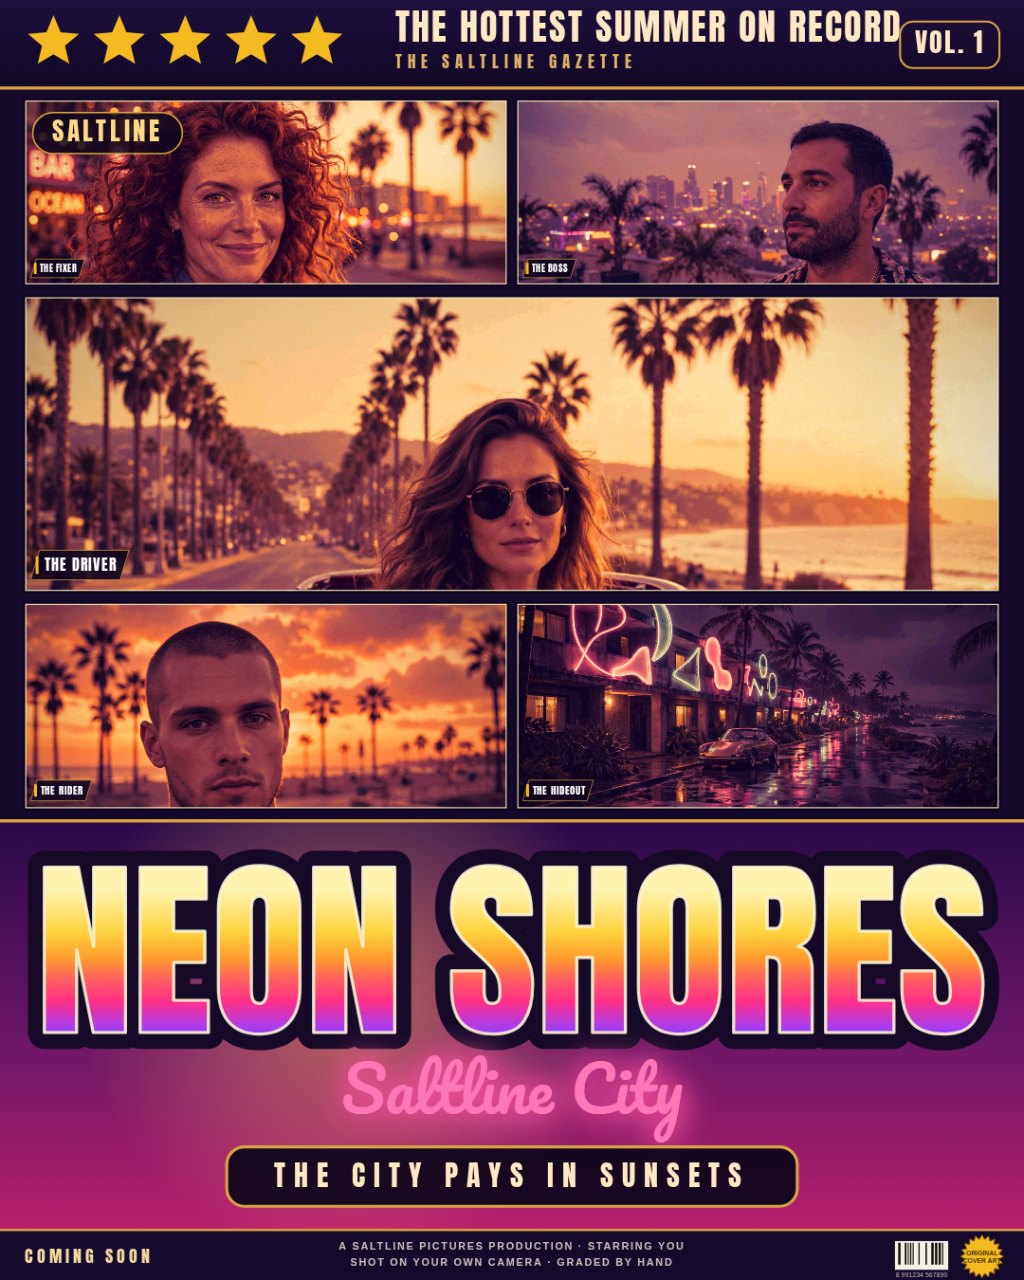
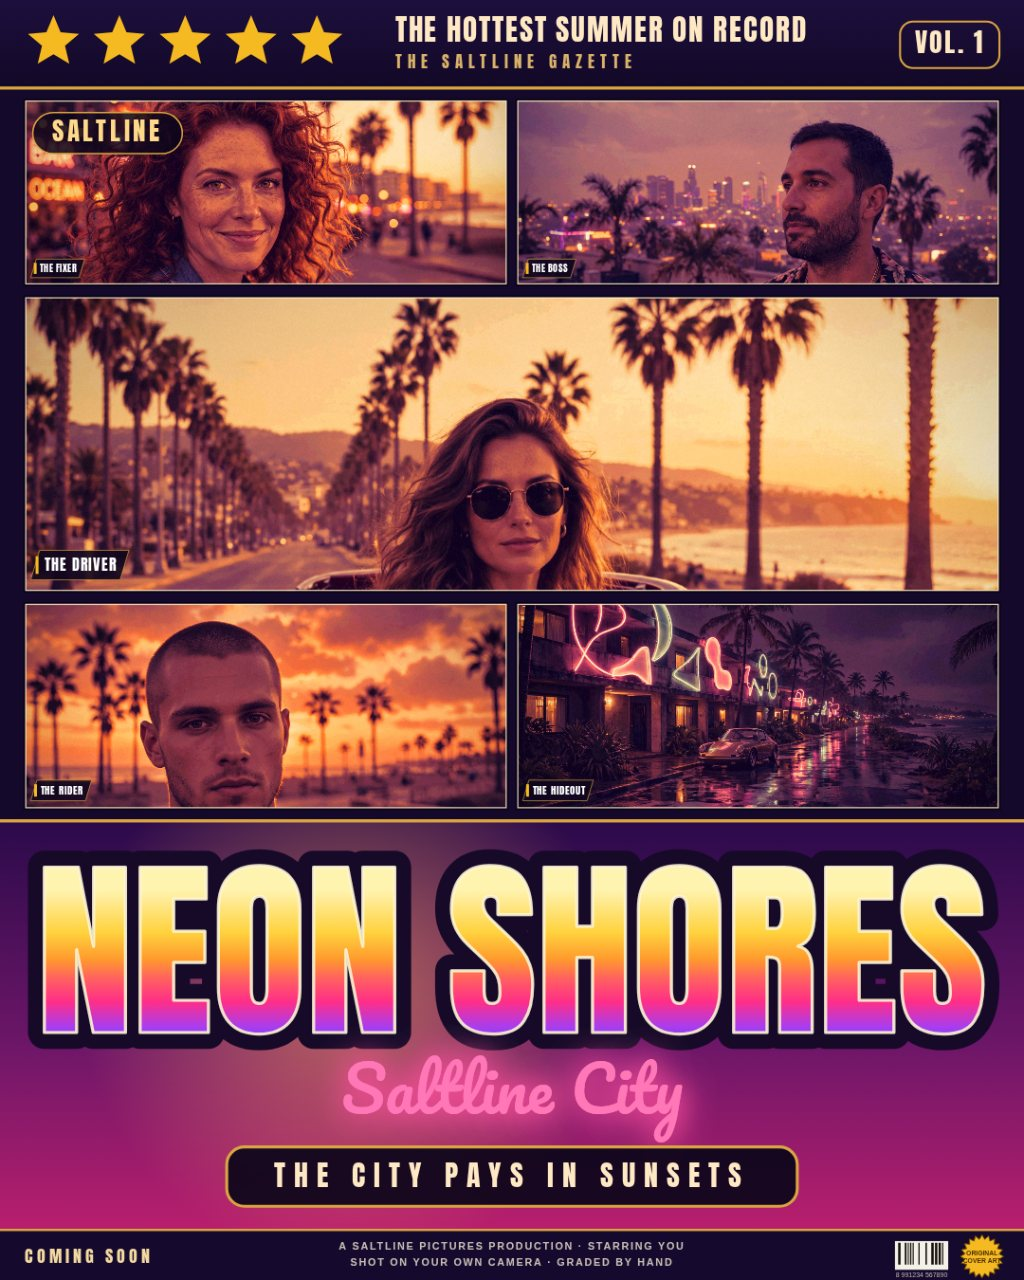
Round 3 re-authored: poster fixer framing + masthead gap

Changed region(s): [[0.0, 0.0625, 0.5, 0.2188], [0.375, 0.0, 0.875, 0.0312]]

diff --git a/app/src/render.js b/app/src/render.js
@@ -112,7 +112,7 @@ function titleMetrics(W, H, zones, state) {
 
 // ---- Furniture pieces ------------------------------------------------
 
-function paintMasthead(ctx, zone, W) {
+function paintMasthead(ctx, zone, W, layoutId) {
   const { y, h } = zone;
   const grad = ctx.createLinearGradient(0, y, 0, y + h);
   grad.addColorStop(0, '#1d0f3d');
@@ -133,6 +133,12 @@ function paintMasthead(ctx, zone, W) {
   ctx.textAlign = 'left';
   ctx.textBaseline = 'alphabetic';
   ctx.fillStyle = CREAM;
+  // On the portrait poster the band is short for its width, and a
+  // quote fitted without its letter spacing paints wider than it
+  // measured — wide enough to run into the VOL. 1 chip. There, apply
+  // the spacing before fitting, so the measured width is the painted
+  // width and the line ends well clear of the chip.
+  if (layoutId === 'poster') spacing(ctx, quoteSize * 0.06);
   const qSize = fitSize(ctx, 'THE HOTTEST SUMMER ON RECORD', 'Anton', 400, quoteSize, W * 0.44);
   spacing(ctx, qSize * 0.06);
   ctx.font = `400 ${qSize}px Anton`;
@@ -421,7 +427,7 @@ export function renderCover(canvas, state, opts = {}) {
   if (state.furniture) {
     const m = titleMetrics(W, H, zones, state);
     if (zones.bed) paintBed(ctx, zones.bed);
-    if (zones.masthead) paintMasthead(ctx, zones.masthead, W);
+    if (zones.masthead) paintMasthead(ctx, zones.masthead, W, state.layout);
     // The SALTLINE pill sits on the top-left panel.
     if (zones.panels.length) {
       const tl = zones.panels.reduce((a, b) => (b.x < a.x || (b.x === a.x && b.y < a.y) ? b : a), zones.panels[0]);

diff --git a/app/src/shots.js b/app/src/shots.js
@@ -27,6 +27,15 @@ function applyParams(state, params) {
   if (params.get('caption')) state.caption = params.get('caption');
   if (params.get('subtitle')) state.subtitle = params.get('subtitle');
   ensurePanels(state);
+  // Poster framing fix: in the portrait poster the smart crop seats
+  // the Fixer's chin right on her panel's bottom edge. Slide that one
+  // panel's crop window a little further down the photo so her whole
+  // face, chin included, sits inside the frame with a margin. Scoped
+  // to the poster scene; every other layout keeps the default crop.
+  if (state.layout === 'poster') {
+    const fixer = state.panels.find((p) => p.photoId === 'redhead');
+    if (fixer) fixer.dy = 0.07;
+  }
 }
 
 function signalReady() {
